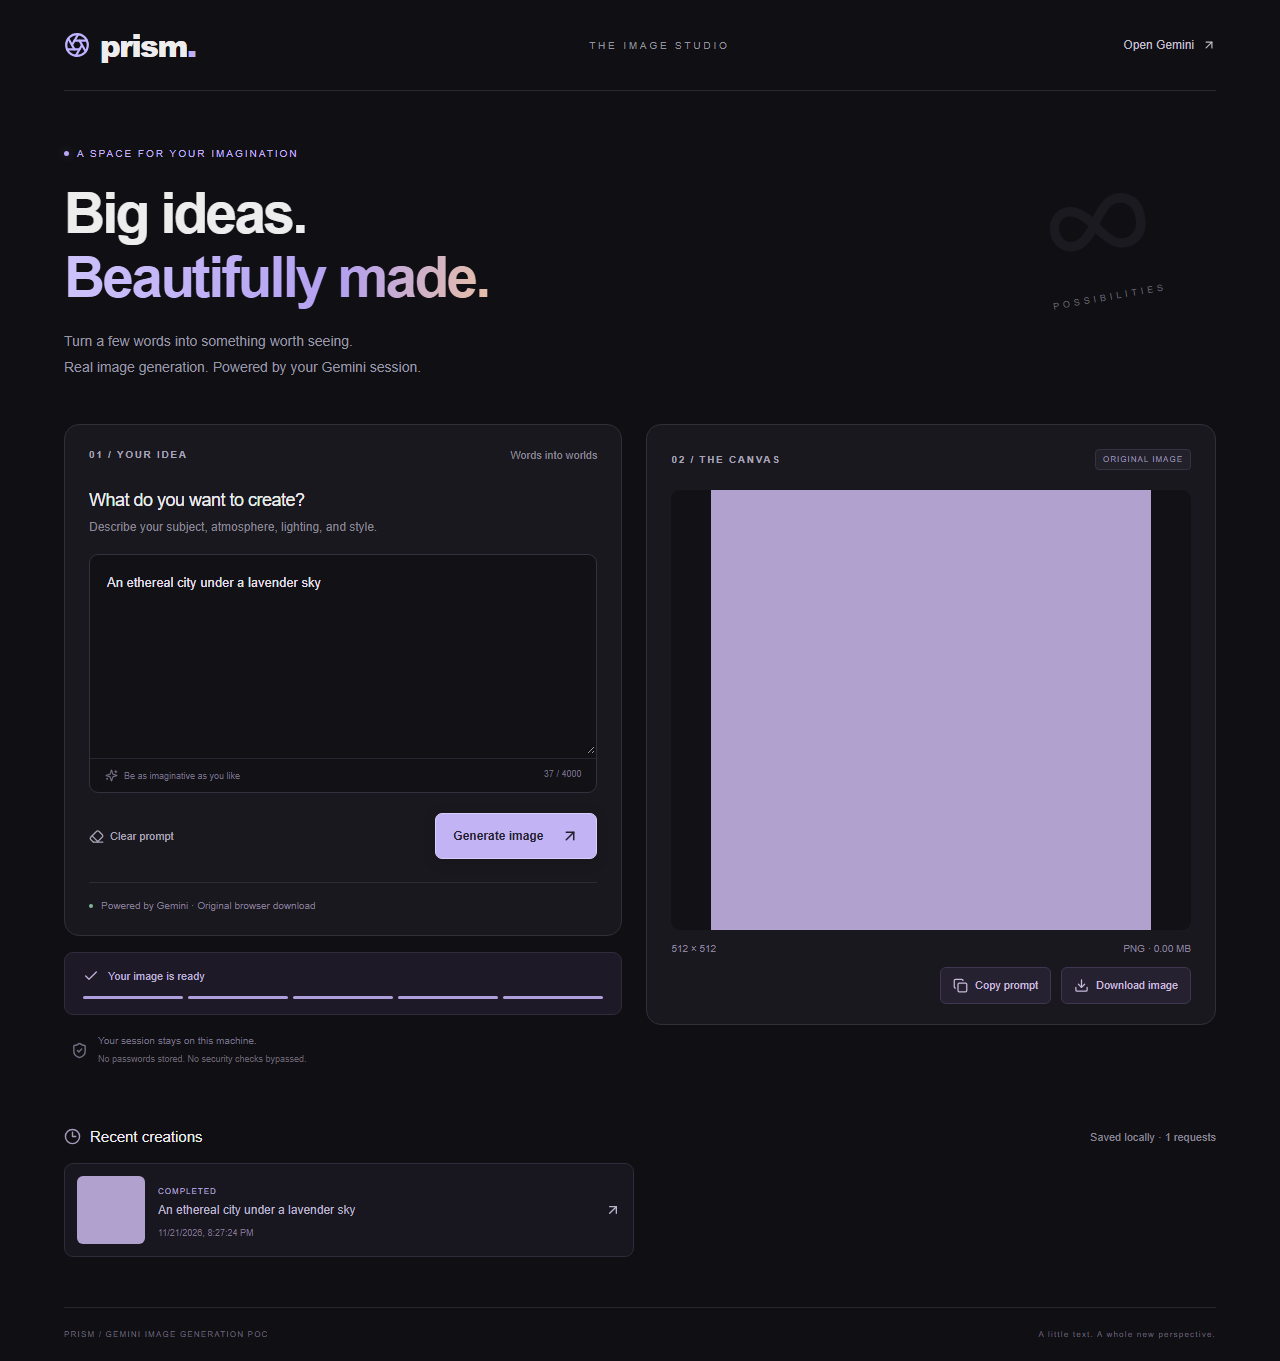
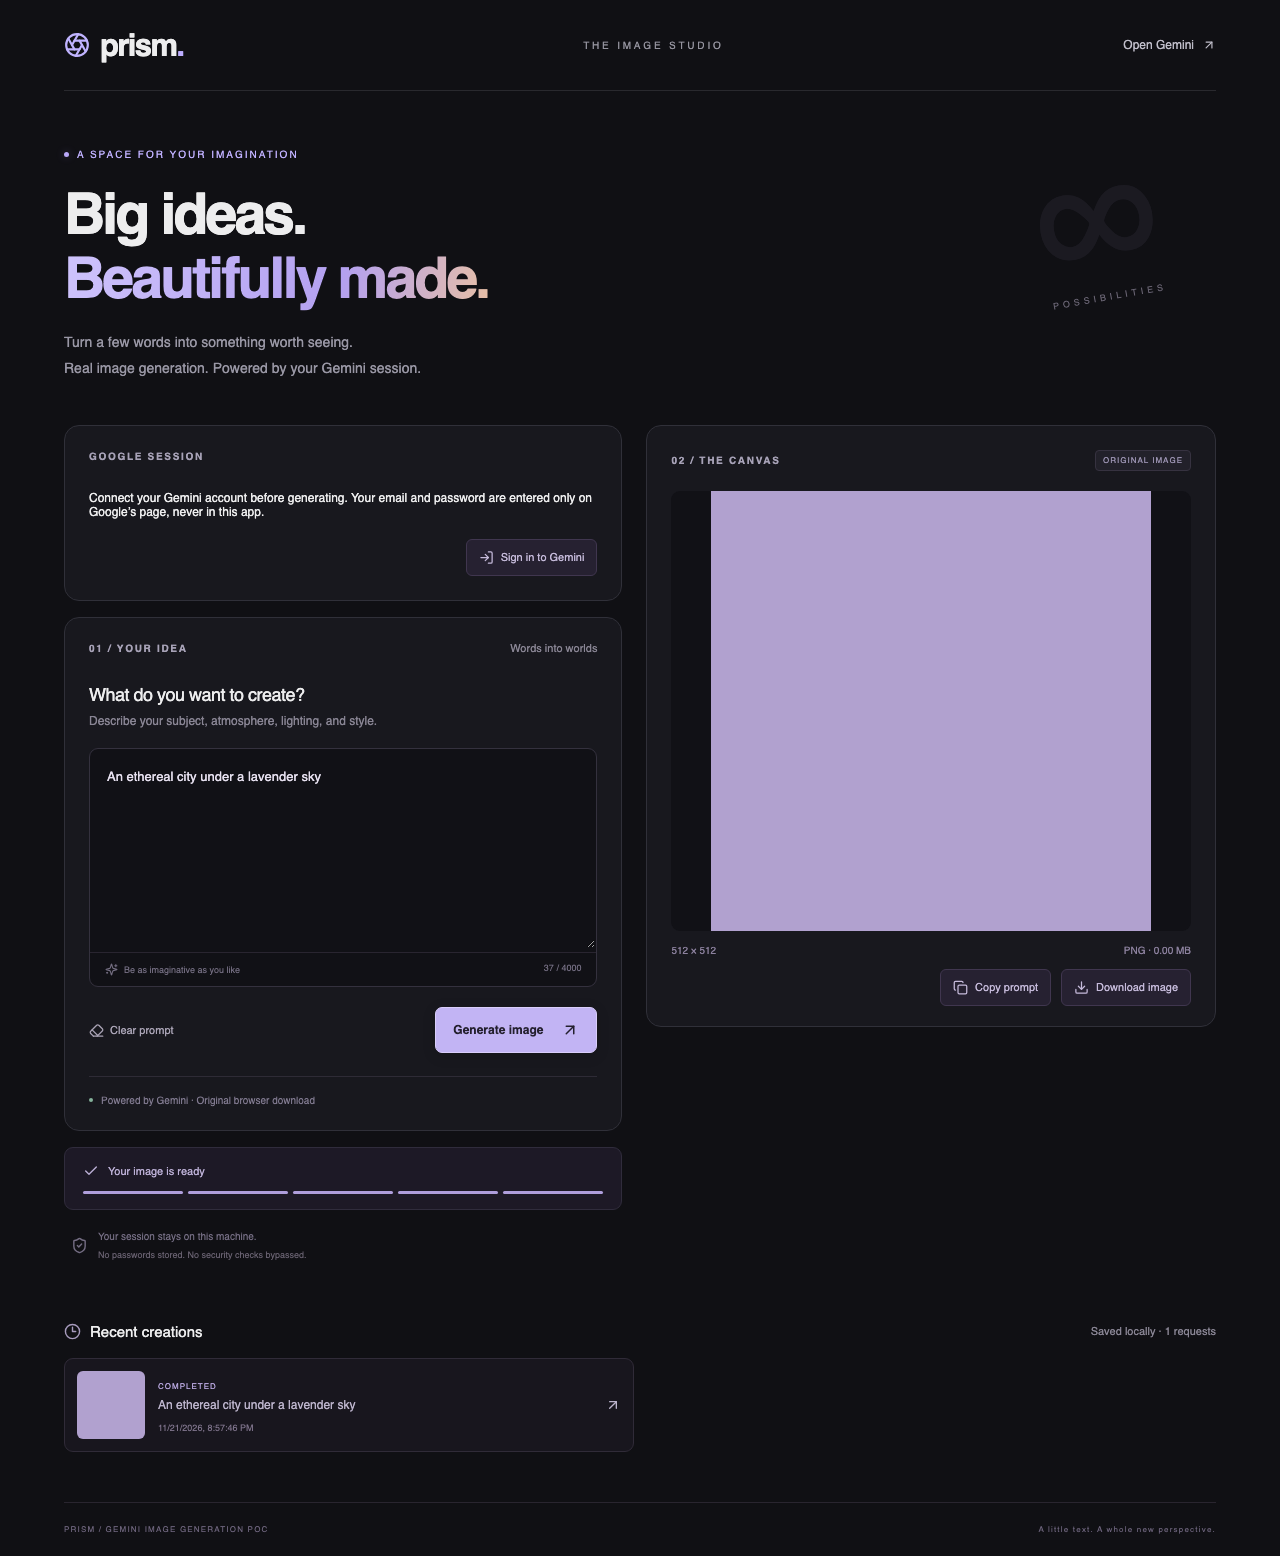
fixed changes

diff --git a/app_builder/templates/base-frontend-vite-mui/frontend/src/renderer/useAppDefinition.tsx b/app_builder/templates/base-frontend-vite-mui/frontend/src/renderer/useAppDefinition.tsx
@@ -21,14 +21,15 @@ export interface AppDefinition {
     dataModel?: string;
     generationPolicy?: string;
     containsSyntheticData?: boolean;
-    predictConfig?: Record<string, unknown>;
+    /** Absent when Predict is not configured. JSON serialization may use null. */
+    predictConfig?: Record<string, unknown> | null;
     sourceDatasets?: Array<{
       id: string;
       dataKey: string;
       title: string;
-      description?: string;
-      columns: Array<{ field: string; header: string; type?: string }>;
-    }>;
+      description?: string | null;
+      columns: Array<Record<string, unknown>>;
+    }> | null;
   };
   theme: Record<string, unknown>;
   navigation: Array<{ label: string; path: string; icon: string; pageId: string }>;
@@ -56,6 +57,91 @@ type AppDefinitionContextValue = {
 };
 
 const AppDefinitionContext = createContext<AppDefinitionContextValue | null>(null);
+
+function textValue(value: unknown, fallback = ''): string {
+  return typeof value === 'string' && value.trim() ? value : fallback;
+}
+
+function recordValue(value: unknown): Record<string, unknown> | undefined {
+  if (!value || typeof value !== 'object' || Array.isArray(value)) return undefined;
+  return value as Record<string, unknown>;
+}
+
+/** Accept generated data.json, including null optional fields, and return a renderer-safe definition. */
+export function readAppDefinition(raw: unknown): AppDefinition {
+  const root = recordValue(raw) || {};
+  const metaIn = recordValue(root.meta) || {};
+  const pages = (Array.isArray(root.pages) ? root.pages : []).flatMap((item) => {
+    const page = recordValue(item);
+    if (!page) return [];
+    const id = textValue(page.id, 'page');
+    return [{
+      id,
+      title: textValue(page.title, id),
+      subtitle: typeof page.subtitle === 'string' ? page.subtitle : undefined,
+      blocks: Array.isArray(page.blocks) ? page.blocks.filter((block) => block && typeof block === 'object' && !Array.isArray(block)) as Array<Record<string, unknown>> : [],
+    }];
+  });
+  const navigation = (Array.isArray(root.navigation) ? root.navigation : []).flatMap((item, index) => {
+    const nav = recordValue(item);
+    if (!nav) return [];
+    const pageId = textValue(nav.pageId, pages[index]?.id || `page_${index + 1}`);
+    return [{
+      label: textValue(nav.label, pageId),
+      path: index === 0 ? '/' : textValue(nav.path, `/${pageId}`),
+      icon: textValue(nav.icon, 'Article'),
+      pageId,
+    }];
+  });
+  const theme: Record<string, unknown> = {};
+  const themeIn = recordValue(root.theme);
+  if (themeIn) {
+    for (const [key, value] of Object.entries(themeIn)) {
+      if (typeof value === 'string') theme[key] = value;
+      if (key === 'chartPalette' && Array.isArray(value)) {
+        theme[key] = value.filter((color): color is string => typeof color === 'string');
+      }
+    }
+  }
+  const sources = Array.isArray(metaIn.sourceDatasets)
+    ? metaIn.sourceDatasets.flatMap((item) => {
+        const ds = recordValue(item);
+        if (!ds) return [];
+        const dataKey = textValue(ds.dataKey);
+        if (!dataKey) return [];
+        return [{
+          id: textValue(ds.id, dataKey),
+          dataKey,
+          title: textValue(ds.title, dataKey),
+          description: typeof ds.description === 'string' ? ds.description : undefined,
+          columns: Array.isArray(ds.columns)
+            ? ds.columns.filter((col) => col && typeof col === 'object') as Array<Record<string, unknown>>
+            : [],
+        }];
+      })
+    : undefined;
+
+  return {
+    version: typeof root.version === 'number' ? root.version : 1,
+    meta: {
+      appName: textValue(metaIn.appName, 'Application'),
+      description: typeof metaIn.description === 'string' ? metaIn.description : '',
+      domain: textValue(metaIn.domain, 'generic'),
+      capabilities: Array.isArray(metaIn.capabilities) ? metaIn.capabilities.filter((item): item is string => typeof item === 'string') : undefined,
+      dataSource: typeof metaIn.dataSource === 'string' ? metaIn.dataSource : undefined,
+      dataModel: typeof metaIn.dataModel === 'string' ? metaIn.dataModel : undefined,
+      generationPolicy: typeof metaIn.generationPolicy === 'string' ? metaIn.generationPolicy : undefined,
+      containsSyntheticData: metaIn.containsSyntheticData === true,
+      predictConfig: recordValue(metaIn.predictConfig),
+      sourceDatasets: sources,
+    },
+    theme,
+    navigation: navigation.length ? navigation : [{ label: pages[0]?.title || 'Dashboard', path: '/', icon: 'Dashboard', pageId: pages[0]?.id || 'dashboard' }],
+    pages: pages.length ? pages : [{ id: 'dashboard', title: 'Dashboard', blocks: [] }],
+    data: recordValue(root.data),
+    mock: recordValue(root.mock),
+  };
+}
 
 function collectImportTargets(defn: AppDefinition): ImportTarget[] {
   const fromMeta = defn.meta?.sourceDatasets;
@@ -86,7 +172,7 @@ function collectImportTargets(defn: AppDefinition): ImportTarget[] {
 }
 
 export function AppDefinitionProvider({ children }: { children: ReactNode }) {
-  const staticDef = definitionJson as AppDefinition;
+  const staticDef = readAppDefinition(definitionJson);
   const [definition, setDefinition] = useState<AppDefinition>(staticDef);
   const [loading, setLoading] = useState(false);
   const [error, setError] = useState<string | null>(null);
@@ -112,8 +198,7 @@ export function AppDefinitionProvider({ children }: { children: ReactNode }) {
       if (!res.ok) {
         throw new Error(`Could not load app data (${res.status})`);
       }
-      const data = (await res.json()) as AppDefinition;
-      setDefinition(data);
+      setDefinition(readAppDefinition(await res.json()));
     } catch (e) {
       setError(e instanceof Error ? e.message : 'Failed to load definition');
     } finally {
@@ -148,7 +233,7 @@ export function AppDefinitionProvider({ children }: { children: ReactNode }) {
 export function useAppDefinition(): AppDefinitionContextValue {
   const ctx = useContext(AppDefinitionContext);
   if (!ctx) {
-    const definition = definitionJson as AppDefinition;
+    const definition = readAppDefinition(definitionJson);
     return {
       definition,
       loading: false,

diff --git a/app_builder/templates/base-frontend-vite-mui/frontend/src/renderer/BlockRenderer.tsx b/app_builder/templates/base-frontend-vite-mui/frontend/src/renderer/BlockRenderer.tsx
@@ -73,6 +73,11 @@ function kpiValues(
   return out;
 }
 
+function asRows(value: unknown): Record<string, unknown>[] {
+  if (!Array.isArray(value)) return [];
+  return value.filter((row): row is Record<string, unknown> => Boolean(row) && typeof row === 'object' && !Array.isArray(row));
+}
+
 function filterRows(
   rows: Record<string, unknown>[],
   filters: ReturnType<typeof usePageFilters>['filters'],
@@ -203,7 +208,7 @@ export default function BlockRenderer({
   }
 
   if (type === 'lineChart' || type === 'barChart') {
-    const data = filterRows((getDataSlice(definition, normalized.dataKey as string) as Record<string, unknown>[]) || [], filters);
+    const data = filterRows(asRows(getDataSlice(definition, String(normalized.dataKey || ''))), filters);
     const series = (normalized.series as Array<{ dataKey: string; name?: string; color?: string }>) || [];
     const xAxisKey = resolveXAxisKey(data, (normalized.xAxisKey as string) || 'period');
     const Chart = type === 'lineChart' ? LineChart : BarChart;
@@ -236,12 +241,20 @@ export default function BlockRenderer({
   }
 
   if (type === 'pieChart') {
-    const data = (getDataSlice(definition, normalized.dataKey as string) as Array<{ name: string; value: number }>) || [];
+    const data = asRows(getDataSlice(definition, String(normalized.dataKey || ''))).flatMap((row) => {
+      const value = row.value;
+      if (typeof value !== 'number' || !Number.isFinite(value)) return [];
+      return [{ name: String(row.name ?? ''), value }];
+    });
     const chartHeight = (normalized.height as number) || (layout === 'grid' ? 280 : 320);
     return (
       <Paper sx={chartPaperSx[layout]} elevation={0}>
         {displayTitle ? <ChartCardTitle title={displayTitle} /> : null}
-        <PieChart data={data} height={chartHeight} />
+        {data.length === 0 ? (
+          <Typography variant="body2" color="text.secondary">No chart data</Typography>
+        ) : (
+          <PieChart data={data} height={chartHeight} />
+        )}
       </Paper>
     );
   }
@@ -258,8 +271,18 @@ export default function BlockRenderer({
   }
 
   if (type === 'dataTable') {
-    const rawRows = (getDataSlice(definition, normalized.dataKey as string) as Record<string, unknown>[]) || [];
-    const columns = (normalized.columns as Array<{ field: string; header: string; align?: string; variant?: string }>) || [];
+    const rawRows = asRows(getDataSlice(definition, String(normalized.dataKey || '')));
+    const columns = (Array.isArray(normalized.columns) ? normalized.columns : []).flatMap((col) => {
+      if (!col || typeof col !== 'object') return [];
+      const column = col as { field?: unknown; header?: unknown; align?: unknown; variant?: unknown };
+      if (typeof column.field !== 'string' || !column.field) return [];
+      return [{
+        field: column.field,
+        header: typeof column.header === 'string' && column.header ? column.header : column.field,
+        align: column.align === 'left' || column.align === 'center' || column.align === 'right' ? column.align : undefined,
+        variant: typeof column.variant === 'string' ? column.variant : undefined,
+      }];
+    });
     const rows = filterRows(rawRows, filters);
     const rowKey = resolveRowKey(rows, columns, normalized.rowKey as string | undefined);
     const detailView = Boolean(normalized.detailView);

diff --git a/app_builder/templates/base-frontend-vite-mui/frontend/src/pages/PredictPage.tsx b/app_builder/templates/base-frontend-vite-mui/frontend/src/pages/PredictPage.tsx
@@ -60,7 +60,9 @@ function baselineToForm(fields: PredictField[], baseline: Record<string, number>
 export default function PredictPage() {
   const { definition } = useAppDefinition();
   const apiBase = getAkkioApiBase();
-  const predictConfig = (definition?.meta?.predictConfig as PredictConfig | undefined) ?? undefined;
+  const rawPredictConfig = definition?.meta?.predictConfig;
+  const predictConfig: PredictConfig | undefined =
+    rawPredictConfig && typeof rawPredictConfig === 'object' ? (rawPredictConfig as PredictConfig) : undefined;
 
   const fields = useMemo<PredictField[]>(() => {
     if (predictConfig?.fields?.length) {

diff --git a/app_builder/services/definition_contract.py b/app_builder/services/definition_contract.py
@@ -255,6 +255,74 @@ def retain_page_datasets(
     return kept
 
 
+def _finite_number(value: Any) -> bool:
+    return isinstance(value, (int, float)) and not isinstance(value, bool) and math.isfinite(value)
+
+
+def _row_fields(block: Dict[str, Any]) -> List[str]:
+    kind = _binding_kind(block)
+    if kind == "dataTable":
+        return [str(col.get("field")) for col in block.get("columns") or [] if isinstance(col, dict) and col.get("field")]
+    if kind == "pieChart":
+        return ["name", "value"]
+    return [str(block.get("xAxisKey") or "period")] + [
+        str(series.get("dataKey")) for series in block.get("series") or [] if isinstance(series, dict) and series.get("dataKey")
+    ]
+
+
+def _numeric_fields(block: Dict[str, Any]) -> Set[str]:
+    kind = _binding_kind(block)
+    if kind in {"lineChart", "barChart"}:
+        return {str(series.get("dataKey")) for series in block.get("series") or [] if isinstance(series, dict) and series.get("dataKey")}
+    if kind == "pieChart":
+        return {"value"}
+    return set()
+
+
+def complete_page_data(blocks: List[Dict[str, Any]], data: Dict[str, Any]) -> Dict[str, Any]:
+    """Supply missing dataset structure with empty rows and null metrics, without inventing measurements."""
+    out = align_page_datasets(blocks, data if isinstance(data, dict) else {})
+    for block in blocks:
+        if not isinstance(block, dict):
+            continue
+        kind = _binding_kind(block)
+        key = str(block.get("dataKey") or "")
+        if kind == "kpiRow" and key:
+            bundle = out.get(key) if isinstance(out.get(key), dict) else {}
+            for item in block.get("items") or []:
+                value_key = item.get("valueKey") if isinstance(item, dict) else None
+                if value_key and value_key not in bundle:
+                    bundle[str(value_key)] = None
+            out[key] = bundle
+        elif kind in {"lineChart", "barChart", "pieChart", "dataTable"} and key:
+            fields = _row_fields(block)
+            numeric = _numeric_fields(block)
+            rows = out.get(key)
+            if not isinstance(rows, list):
+                out[key] = []
+            else:
+                fixed: List[Dict[str, Any]] = []
+                for row in rows:
+                    if not isinstance(row, dict):
+                        continue
+                    nxt = dict(row)
+                    for field in fields:
+                        nxt.setdefault(field, None)
+                        if field in numeric and nxt[field] is not None and not _finite_number(nxt[field]):
+                            nxt[field] = None
+                    fixed.append(nxt)
+                out[key] = fixed
+        if kind == "filterBar":
+            for flt in block.get("filters") or []:
+                options_key = flt.get("optionsKey") if isinstance(flt, dict) else None
+                if not options_key:
+                    continue
+                options = out.get(str(options_key))
+                if not isinstance(options, list) or any(not isinstance(option, dict) or "value" not in option or "label" not in option for option in options):
+                    out[str(options_key)] = []
+    return out
+
+
 def dataset_shape_hint(blocks: List[Dict[str, Any]]) -> str:
     shape: Dict[str, Any] = {}
     for block in blocks:

diff --git a/app_builder/services/app_definition_llm_pipeline.py b/app_builder/services/app_definition_llm_pipeline.py
@@ -263,7 +263,13 @@ PRD:
                 else:
                     raise ValueError(f"LLM could not repair PRD gaps for {outline.id}")
 
-        from app_builder.services.definition_contract import dedupe_page_data_keys, dataset_shape_hint, retain_page_datasets, validate_page_data
+        from app_builder.services.definition_contract import (
+            complete_page_data,
+            dedupe_page_data_keys,
+            dataset_shape_hint,
+            retain_page_datasets,
+            validate_page_data,
+        )
 
         blocks_plan.blocks = dedupe_page_data_keys(blocks_plan.blocks, set(mock))
 
@@ -306,7 +312,20 @@ Required JSON shape (use these keys verbatim inside "data"):
             except ValueError as exc:
                 last_error = str(exc)
                 if attempt == 2:
-                    raise ValueError(f"Invalid LLM data for {outline.id}: {last_error}") from exc
+                    if "unique across pages" in last_error:
+                        raise ValueError(f"Invalid LLM data for {outline.id}: {last_error}") from exc
+                    shaped = complete_page_data(blocks_plan.blocks, data_plan.data if data_plan is not None else {})
+                    shaped = {key: value for key, value in shaped.items() if key not in mock}
+                    shaped = complete_page_data(blocks_plan.blocks, shaped)
+                    if set(shaped) & set(mock):
+                        raise ValueError(f"Invalid LLM data for {outline.id}: {last_error}") from exc
+                    validate_page_data(blocks_plan.blocks, shaped)
+                    if data_plan is None:
+                        data_plan = PageDataPlan(data=shaped)
+                    else:
+                        data_plan.data = shaped
+                    logger.warning("[app_definition_llm] kept empty structure for %s after %s", outline.id, last_error)
+                    break
                 logger.warning(
                     "[app_definition_llm] page data for %s missing required datasets (%s); received keys=%s",
                     outline.id,

diff --git a/app_builder/tests/test_strict_manufacturing_builder.py b/app_builder/tests/test_strict_manufacturing_builder.py
@@ -62,6 +62,17 @@ def test_missing_data_is_rejected(data):
         validate_page_data(definition()["pages"][0]["blocks"], data)
 
 
+def test_client_json_omits_null_predict_config():
+    from app_builder.services.production_data_polish import app_definition_to_client_json
+
+    model = AppDefinition.model_validate(definition())
+    assert model.meta.predictConfig is None
+    payload = app_definition_to_client_json(model)
+    assert "predictConfig" not in payload["meta"]
+    assert "sapRagPhase" not in payload["meta"]
+    assert payload["data"]["castings"][0]["status"] == "Closed"
+
+
 def test_empty_dataset_is_not_fabricated():
     payload = definition()
     payload["mock"]["castings"] = []
@@ -251,7 +262,7 @@ def test_reused_dataset_key_is_renamed_for_the_next_page(monkeypatch):
     assert result.pages[1].blocks[1]["dataKey"] == "chart_dashboard_2"
 
 
-def test_omitted_dataset_still_fails(monkeypatch):
+def test_omitted_dataset_renders_without_invented_values(monkeypatch):
     from app_builder.services.app_definition_llm_pipeline import generate_app_definition_llm
 
     payload = definition()
@@ -269,8 +280,9 @@ def test_omitted_dataset_still_fails(monkeypatch):
             return SimpleNamespace(content=json.dumps(responses.pop(0)))
 
     monkeypatch.setitem(sys.modules, "llm_helper", SimpleNamespace(get_llm_for_user=lambda *args, **kwargs: LLM()))
-    with pytest.raises(ValueError, match="Missing dataset: kpis_reports"):
-        asyncio.run(generate_app_definition_llm(requirement="Casting reports"))
+    result = asyncio.run(generate_app_definition_llm(requirement="Casting reports"))
+    assert result.mock["kpis_reports"]["rejected"] is None
+    assert result.mock["castings"] == payload["mock"]["castings"]
 
 
 def test_llm_pipeline_uses_selected_model_and_preserves_response(monkeypatch):

diff --git a/app_builder/services/production_data_polish.py b/app_builder/services/production_data_polish.py
@@ -61,5 +61,6 @@ def app_definition_to_client_json(defn: AppDefinition) -> Dict[str, Any]:
     if not meta.get("description"):
         meta["description"] = "Operational datasets loaded from data.json"
     meta.setdefault("dataSource", "static")
-    raw["meta"] = meta
+    # Optional objects are omitted, not null, so the frontend JSON import stays assignable.
+    raw["meta"] = {key: value for key, value in meta.items() if value is not None}
     return raw
